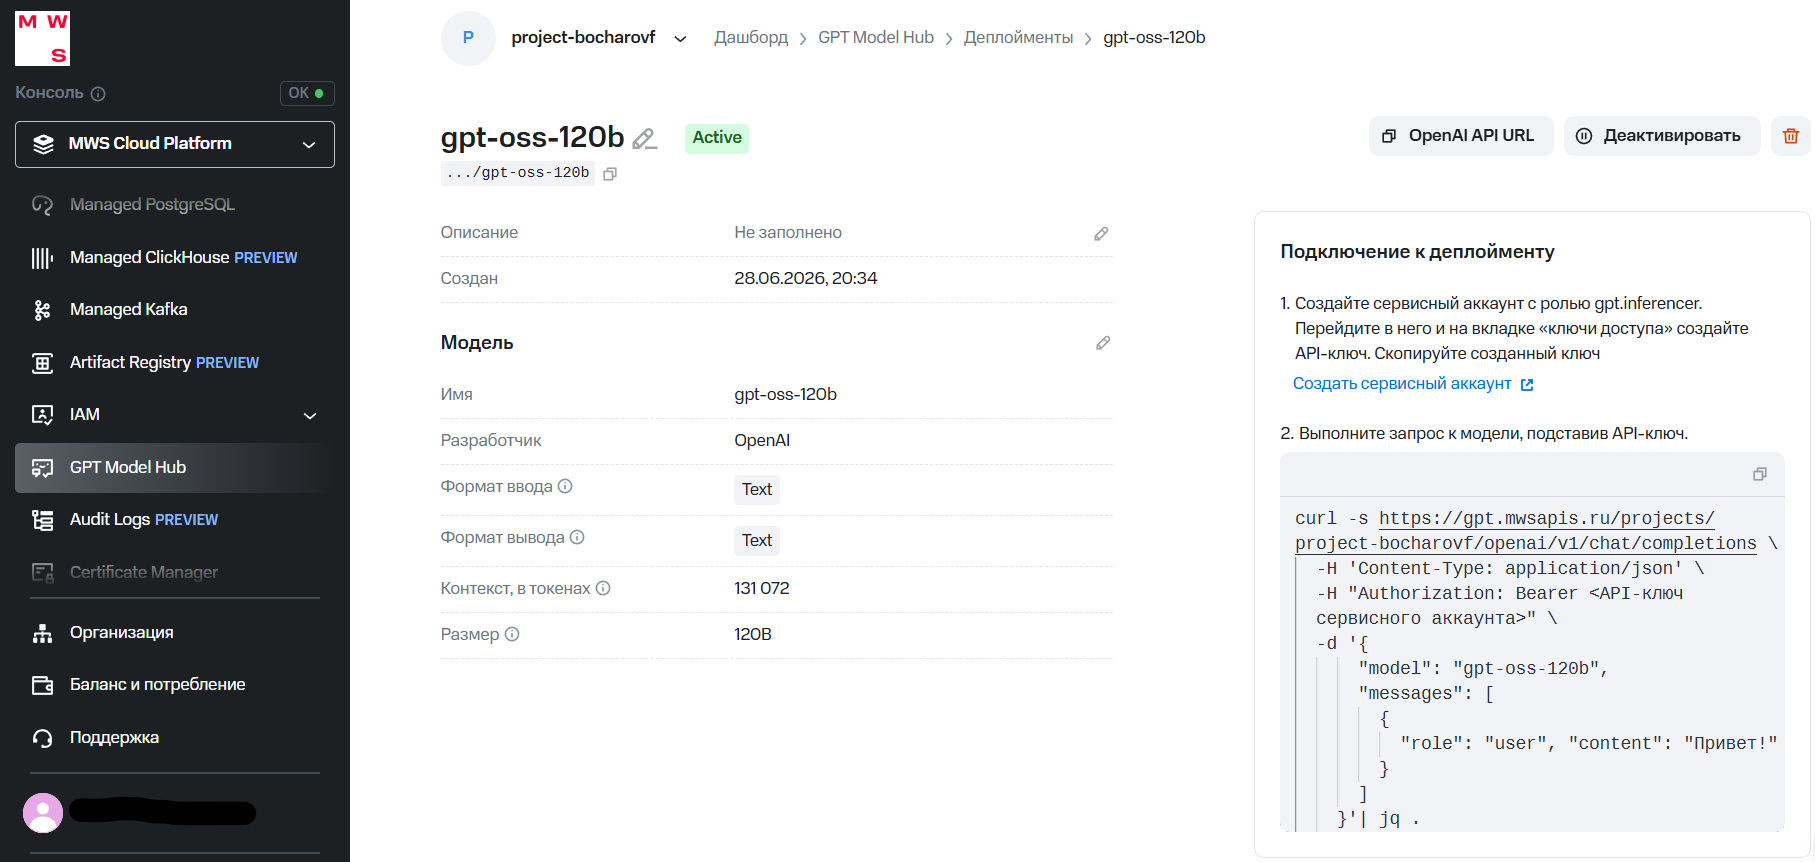
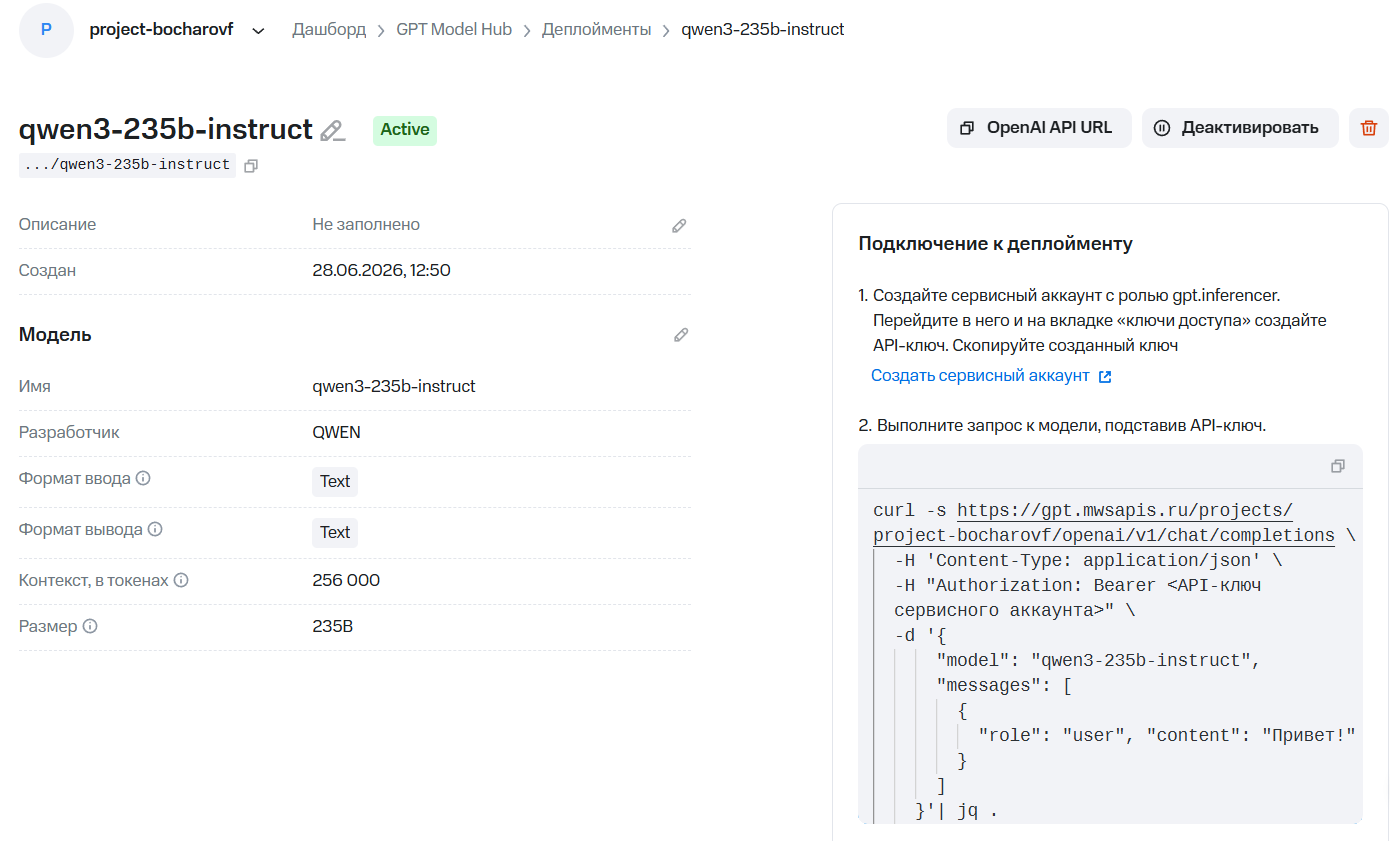
Update screenshots

diff --git a/docs/step12.md b/docs/step12.md
@@ -35,7 +35,7 @@
 Разверните пункт **Show advanced settings** и укажите:
 
 - API Base URL: `https://gpt.mwsapis.ru/projects/ЗАМЕНИТЬ_НА_ВАШ_ПРОЕКТ/openai/v1/`.
-- Custom models: `gpt-oss-120b`.
+- Custom models: `qwen3-235b-instruct`.
 
 Где API Base URL - это адрес вашего проекта, который вы ранее указали в параметре `LLM_URL` файла `.env`.
 